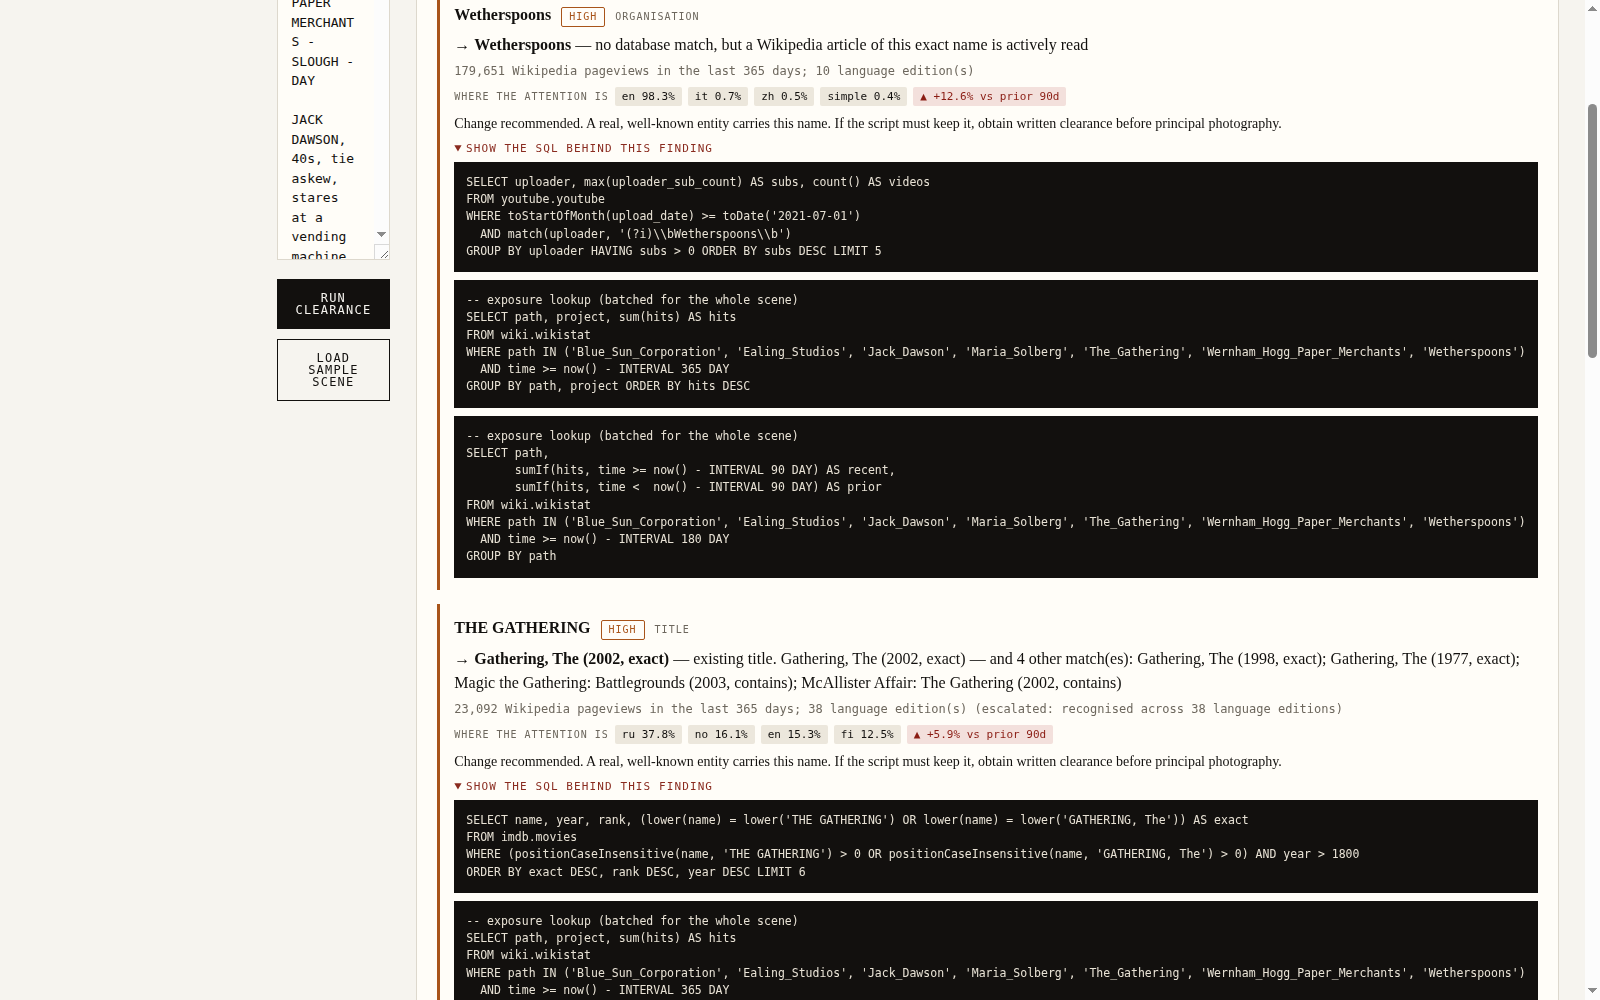
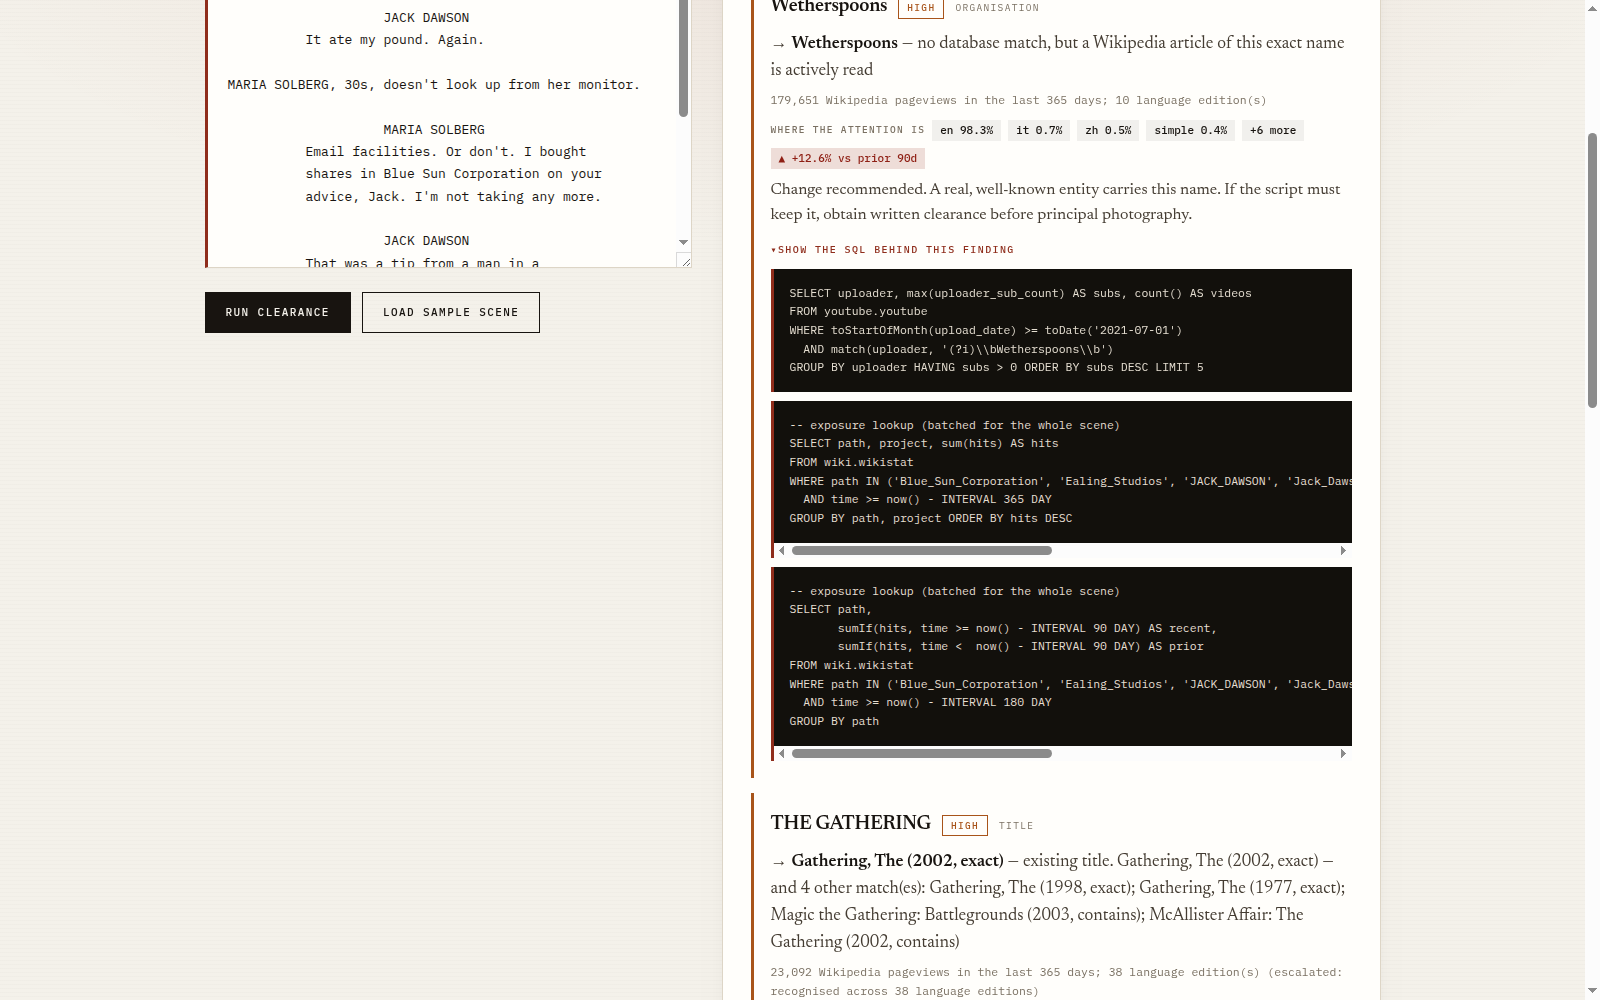
Docs: refresh screenshots to the current UI, correct the health path, document the casing bugs
- Screenshots regenerated against the deployed ADK build with the new interface
- README said /healthz; the endpoint is /api/health (the GFE reserves /healthz)
- Added the measured acronym and Mc/Mac under-reporting table, which was in the
  submission text but not the README
- Added the territory/trend screenshot

diff --git a/README.md b/README.md
@@ -201,7 +201,9 @@ uvicorn app.main:app --reload --port 8080
 No ClickHouse credentials are needed: it connects to the public demo cluster
 (`sql-clickhouse.clickhouse.com:8443`, user `demo`, empty password, read-only).
 
-`GET /healthz` reports whether the MCP session came up and which tools it exposes.
+`GET /api/health` reports the live MCP session, the tools it exposes, the ADK pipeline's
+sub-agents and the warm-cache size. (`/healthz` is reserved by the Google Front End on
+Cloud Run and never reaches the container — a bug this project hit and fixed.)
 
 ## How Google Cloud and ClickHouse are used at runtime
 
